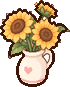
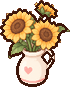
Room items: clear white background trapped inside the phone cord and helmet
Background removal only cleared white connected to the image edge, so white
enclosed by the phone cord, the helmet straps, the cup handle, the yoga mat
strap and between the sunflower leaves stayed. Those pieces (HOLES) now also
clear enclosed areas matching the background white. Pieces whose real parts
are as white as the background (rice, white stars) are left out.

Claude-Session: https://claude.ai/code/session_01MT4YkmG2KGTMjF5XqnwBbs

Changed region(s): [[0.5714, 0.5747, 0.8, 0.7586], [0.5429, 0.1609, 0.7143, 0.2759], [0.7143, 0.2069, 0.7429, 0.2299]]

diff --git a/public/sw.js b/public/sw.js
@@ -1,5 +1,5 @@
 // 版本號：主.次.修（見 CLAUDE.md「版本號」）。改了任何檔案就把最後一位 +1，舊快取才會被清掉
-const VERSION = '0.0.102';
+const VERSION = '0.0.103';
 const CACHE = `lifelog-${VERSION}`;
 const ASSETS = [
   './',

diff --git a/art/tools/imprint_items.py b/art/tools/imprint_items.py
@@ -34,6 +34,36 @@ ROTATE = {'call': 11}
 LINE_W = {'star': 2, 'sparkle': 2}
 
 
+# 有被包起來的白底洞要清掉的（只列確定是背景的：碗裡的白飯、星星吊飾的白星星和背景一樣白，不能清）
+HOLES = {'call', 'bike', 'coffee', 'workout', 'sun', 'music'}
+
+
+def cut(path):
+    """去背：邊緣連過來的白色（white_cut），再加上被包起來、顏色和背景一樣的白色洞
+    （電話線圈、安全帽帶子中間）；物件本身的白（奶油、杯子、貓毛）比背景暗，留著"""
+    im = white_cut(path)
+    if path.stem not in HOLES:
+        return im
+    rgb = np.asarray(Image.open(path).convert('RGB')).astype(int)
+    white = rgb.min(-1) > 232
+    lab, n = ndimage.label(white)
+    edge = set(np.unique(np.r_[lab[0], lab[-1], lab[:, 0], lab[:, -1]])) - {0}
+    bg = rgb[np.isin(lab, list(edge))].mean(0)
+    hole = np.zeros(white.shape, bool)
+    for i in range(1, n + 1):
+        if i in edge:
+            continue
+        px = lab == i
+        if px.sum() >= 150 and np.abs(rgb[px].mean(0) - bg).max() < 6:
+            hole |= px
+    if not hole.any():
+        return im
+    m = ~np.isin(lab, list(edge)) & ~hole
+    m = ndimage.binary_opening(m, iterations=1)
+    full = Image.fromarray(np.dstack([rgb.astype(np.uint8), (m * 255).astype(np.uint8)]), 'RGBA')
+    return full.crop(full.getbbox())
+
+
 def reline(im, w=3):
     """沿外輪廓重畫一圈跟房間一樣的線；細的部分（氣球線）不重畫，不然會整條變黑"""
     a = np.array(im)
@@ -48,7 +78,7 @@ def reline(im, w=3):
 def main():
     OUT.mkdir(parents=True, exist_ok=True)
     for key, w in WIDTH.items():
-        im = white_cut(SRC / f'{key}.png')
+        im = cut(SRC / f'{key}.png')
         if key in ROTATE:
             im = im.rotate(-ROTATE[key], expand=True, resample=Image.BICUBIC)
             im = im.crop(im.getbbox())

diff --git a/CLAUDE.md b/CLAUDE.md
@@ -162,6 +162,7 @@
   - 資料 `state.imprints`：`{id:key, key, joyId, at, shown, updatedAt}`；同步用 `mergeImprints`：日期留最早、`shown` 照最新。
   - 設定 `public/joys-config.js` 的 `IMPRINTS`：每件家具在房間的位置（底部中間 x,y）、大小、疊放順序 z、放在地板上的擋路半徑 r；改數字不用動程式。
   - 圖：`python3 art/tools/imprint_items.py` 把 `art/source/furniture/<key>.png`（GPT 白底單張）去背、縮到房間大小、外框重畫成房間的粗細顏色 → `public/room/imprints/<key>.webp`；新增要加進 `WIDTH`、`IMPRINTS`、`sw.js`。
+    - 去背只會去掉「從邊緣連過來的白」；被線圈、帶子圍起來的白底洞要把 key 加進工具的 `HOLES`（清掉和背景一樣白的封閉區塊）。只加確定有洞的：白飯、白色星星這種和背景一樣白的東西會被一起清掉（meal、star 不能加）。新圖做好要放在深色背景上檢查一次。
   - **多選一的擺放位置**（使用者定案，取代原本的「新家具直接疊上去」）：`joys-config.js` 的 `SLOT_OF` 把 32 個圖示分到 22 個位置（`SLOTS` 是位置名稱），同一個位置一次只放一件。拿到新家具時位置已經有東西，視窗問「換上（原本的收起來）／先收著」；收藏冊的按鈕是「放到房間／換上／收起來」。`shownImprints` 和伺服器 `sharedView` 都是新放的在前，`onePerSlot` 每個位置只留第一件（兩台手機各放一件時，留最後放的）。多選一的位置：書桌左邊 coffee／cake、床上 cat／game、書櫃旁地板 gift／workout、地毯中間 meal／cook、電視櫃上（電視右邊）sun／movie／sing／call、門邊地板 umbrella／shop／clean、門上掛鉤 bath／bike。
   - 擺放規劃（使用者定案）：**32 件家具都有圖了**，完整的 22 個位置見 `SLOT_OF`、座標見 `IMPRINTS`。**大小以熊熊為現實比例參考**（使用者定案：瑜珈墊比熊熊高、書和熊熊差不多高）。
     - 書桌左邊 coffee 拿鐵（只有杯子，和蛋糕一樣大）／cake；書桌上的紙條位置不變。角落層架長邊：home 全家福（左）、camera 拍立得（右，只有相機）；角落層架短邊：music 旋轉木馬音樂盒（使用者把唱片機換掉，舊圖 `music_turntable.png`）。窗台 plant、窗簾桿 sparkle 串燈、窗戶旁的牆 sunset 明信片（兩個 `SHEAR` -0.49：負的是往右上升）。
